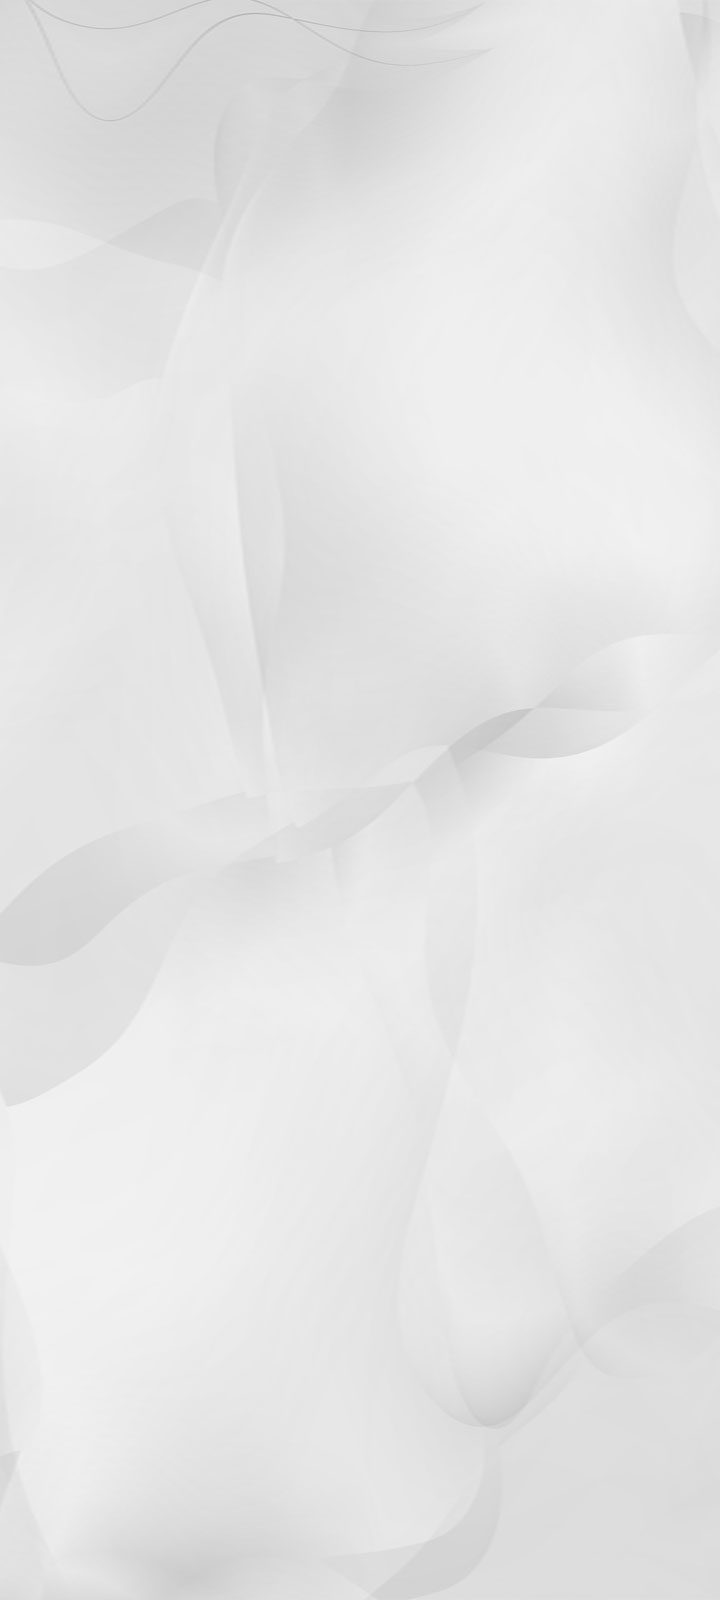
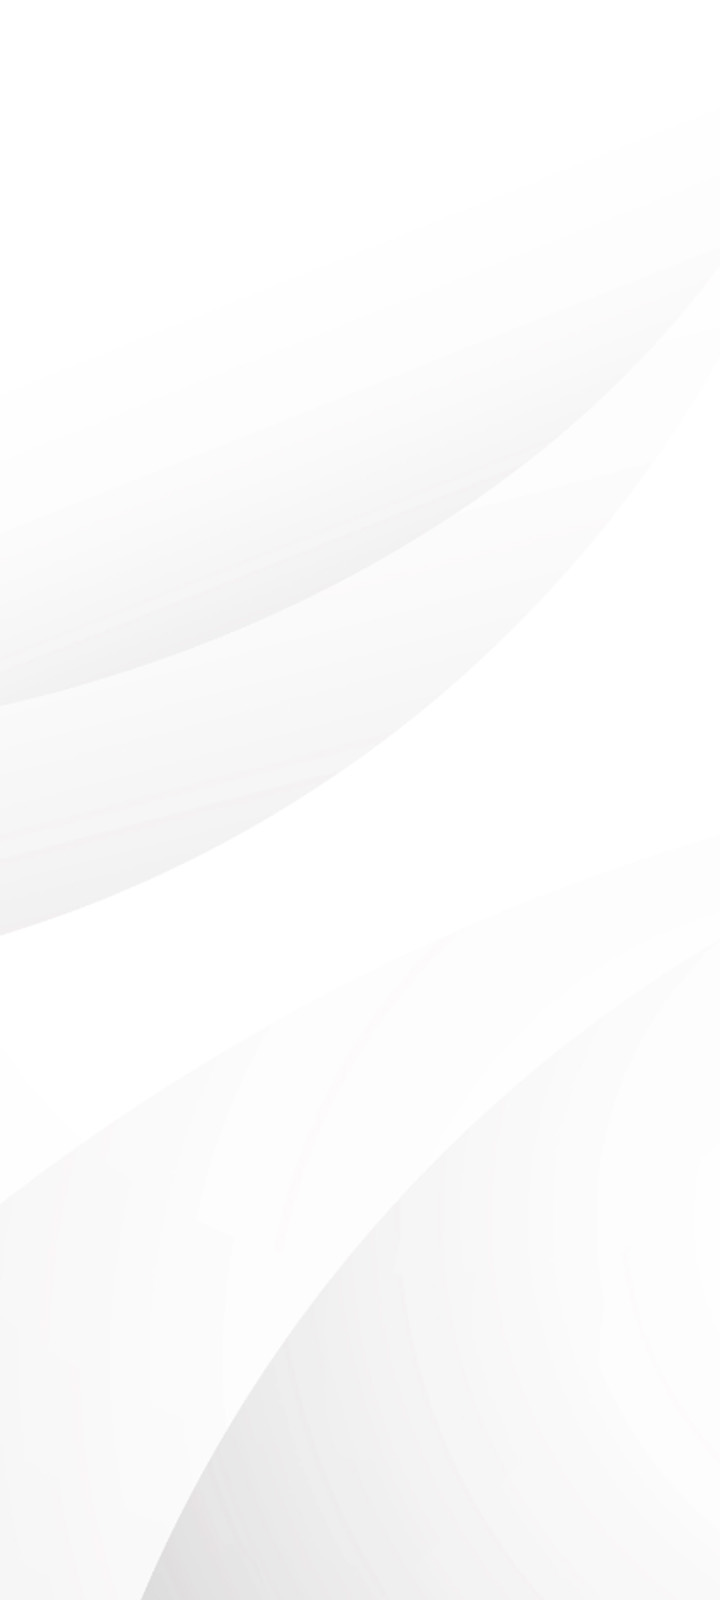
add responsive, fundos de imagens.

diff --git a/style.css b/style.css
@@ -27,6 +27,7 @@ body {
   background-repeat: no-repeat;
   background-position: top center;
   background-size: cover;
+  height: 100vh;
 
   /* background: url(assets/bg-mobile.jpg)no-repeat top center/cover;*/
 }
@@ -35,7 +36,7 @@ body * {
   color: var(--text-color);
 }
 #container {
-  width: 100%;
+  width: 95%;
   max-width: 588px;
   margin: 56px auto 0px;
 }
@@ -140,4 +141,13 @@ footer {
 }
 footer a {
   font-weight: bold;
+}
+
+@media (min-width: 700px) {
+  :root {
+    --bg-url: url(./assets/bg-desktop.jpg);
+  }
+  .light {
+    --bg-url: url(./assets/bg-desktop-light.jpg);
+  }
 }
